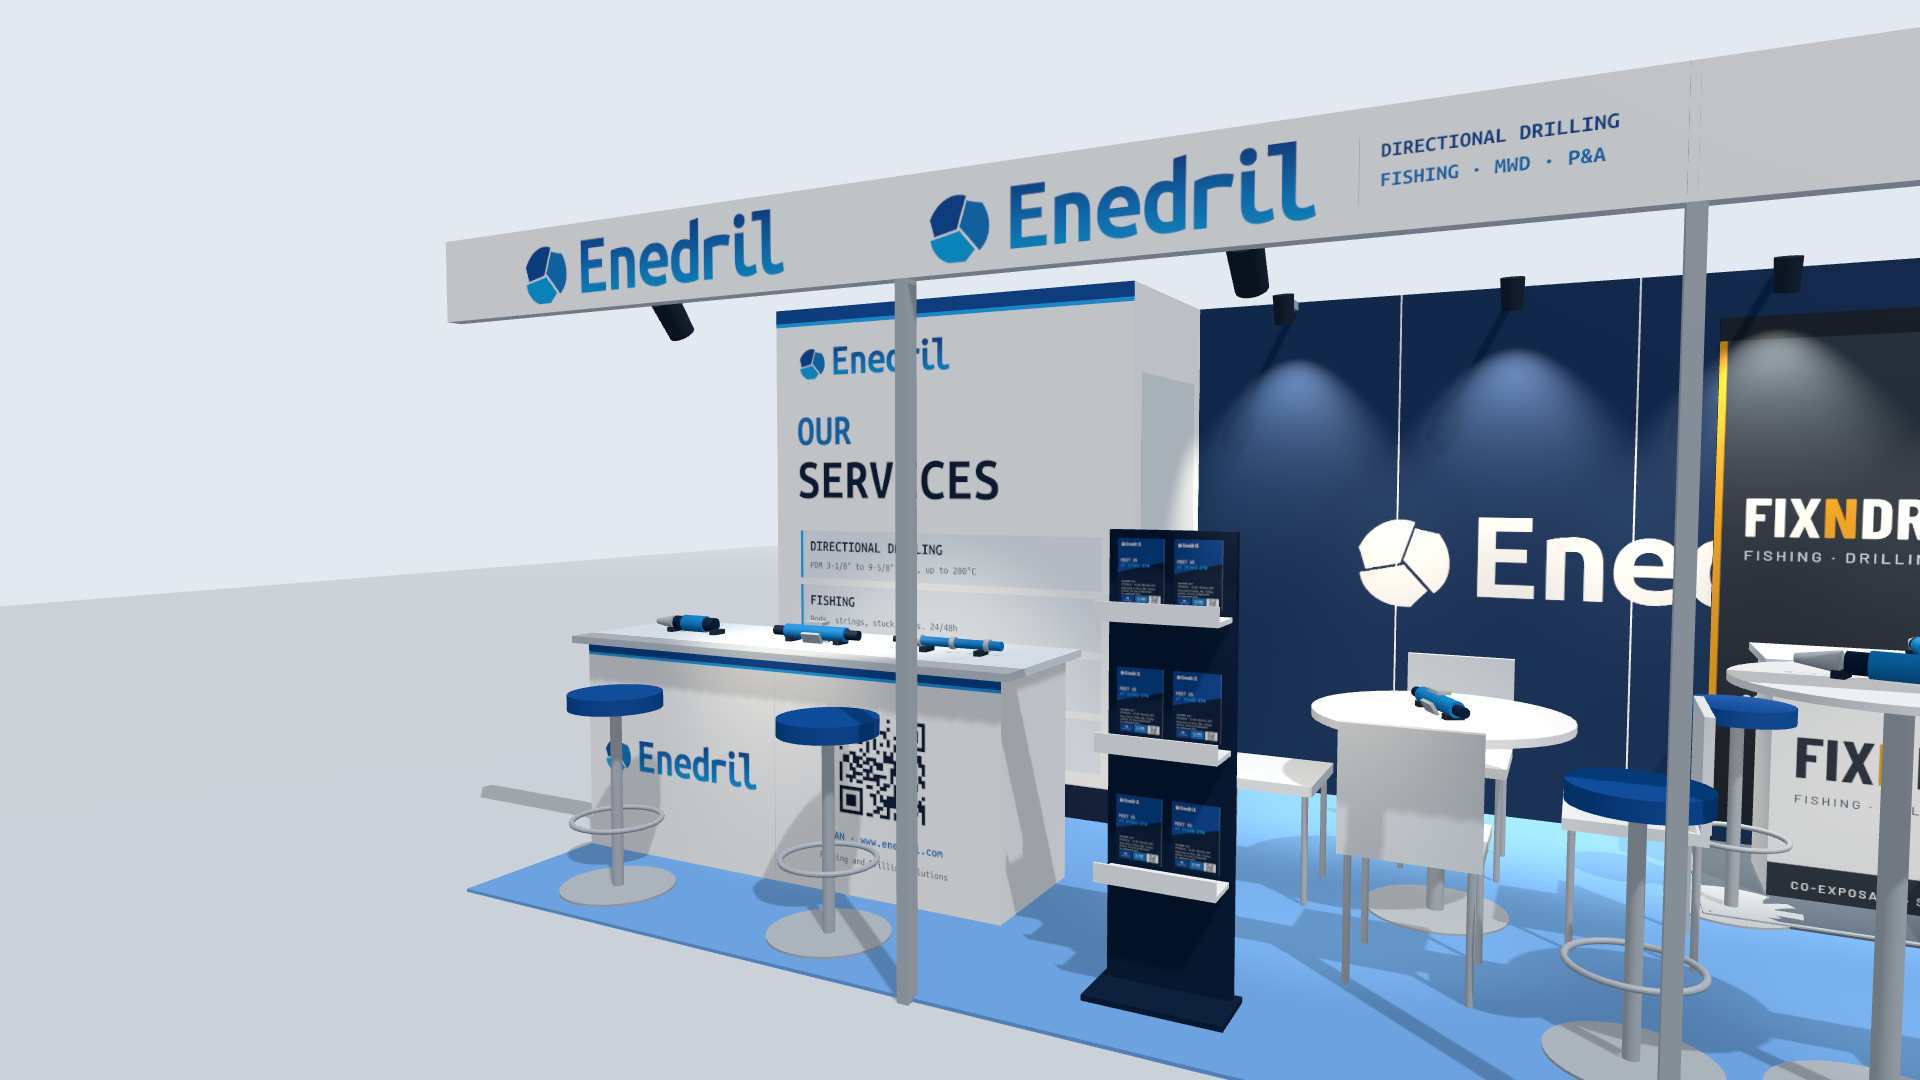
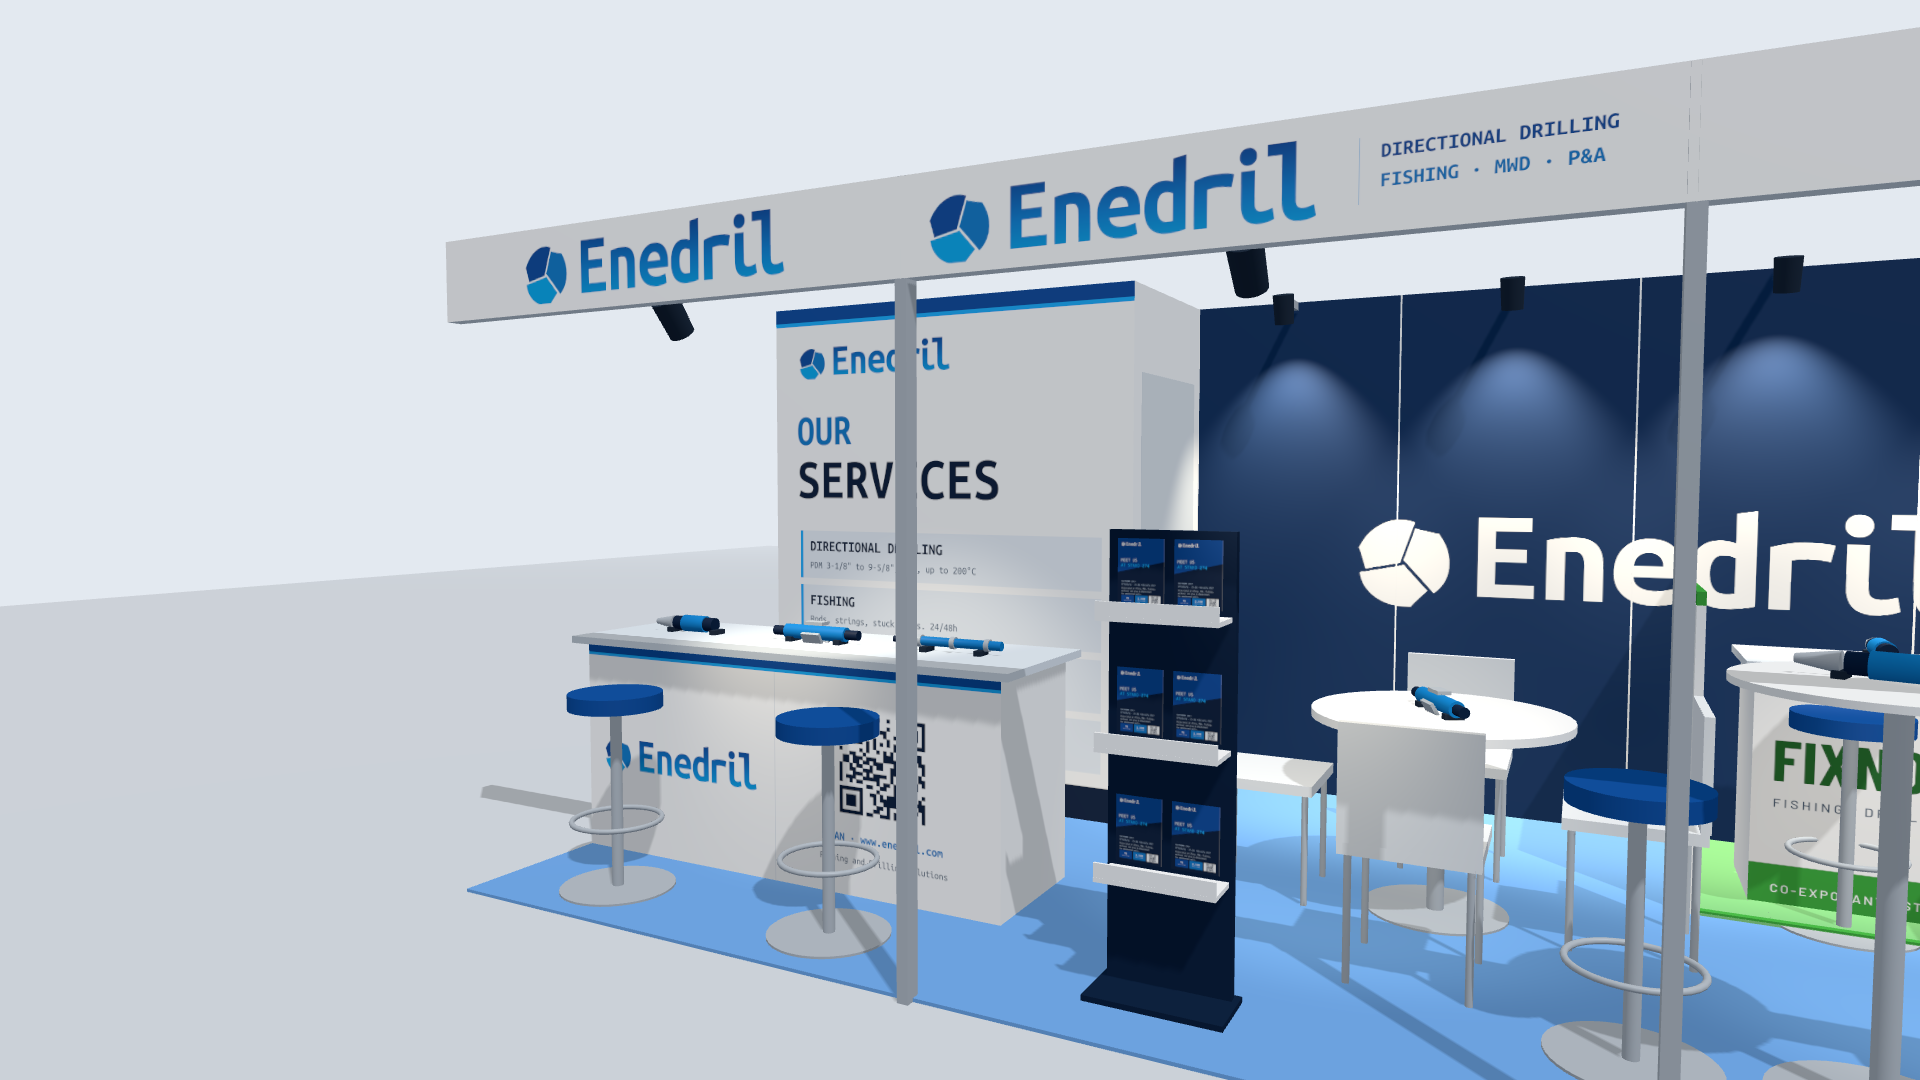
Stand 274: espace Fixndril en vert, separe de l'espace Enedril (cloison, moquette verte, roll-up Fixndril)
Claude-Session: https://claude.ai/code/session_01XPwnZBmWUGhvYebrP3X3Z2

Changed region(s): [[0.875, 0.275, 1.0, 0.8861]]

diff --git a/stand-geotherm-2027/00_Plan_et_3D/source_3D/textures_fixndril.html b/stand-geotherm-2027/00_Plan_et_3D/source_3D/textures_fixndril.html
@@ -1,21 +1,22 @@
 <!doctype html><meta charset=utf-8><style>
 @font-face{font-family:BC;src:url('file:///home/user/Paul/voeux_2027/polices/BarlowCondensed-Bold.ttf');font-weight:700}
-@font-face{font-family:BC;src:url('file:///home/user/Paul/voeux_2027/polices/BarlowCondensed-Medium.ttf');font-weight:500}
 @font-face{font-family:B;src:url('file:///home/user/Paul/voeux_2027/polices/Barlow-Medium.ttf');font-weight:500}
 *{margin:0;box-sizing:border-box}body{background:transparent}
-#wall{width:1250px;height:2000px;background:linear-gradient(180deg,#2E3B4C,#1B2531);color:#fff;position:relative;overflow:hidden}
-#wall .stripe{position:absolute;left:0;top:0;bottom:0;width:26px;background:#E8A317}
-#wall .name{position:absolute;left:100px;top:640px;font:700 232px/0.9 BC;letter-spacing:.005em;white-space:nowrap}
-#wall .name span{color:#E8A317}
-#wall .sub{position:absolute;left:106px;top:880px;font:500 56px/1.3 B;letter-spacing:.18em;color:#C9D3DF;text-transform:uppercase}
-#wall .co{position:absolute;left:116px;top:1500px;font:500 44px/1.4 B;letter-spacing:.12em;color:#9FB0C3}
-#wall .co b{display:block;color:#fff;font:700 74px/1.2 BC;letter-spacing:.06em}
-#front{width:1000px;height:900px;background:#F6F8FA;position:relative;overflow:hidden}
-#front .band{position:absolute;left:0;right:0;bottom:0;height:150px;background:#2B3644}
-#front .name{position:absolute;left:70px;top:230px;font:700 220px/0.9 BC;color:#2B3644}
-#front .name span{color:#E8A317}
-#front .sub{position:absolute;left:76px;top:470px;font:500 42px B;letter-spacing:.2em;color:#51647A;text-transform:uppercase}
-#front .co{position:absolute;left:76px;bottom:48px;font:500 40px B;letter-spacing:.16em;color:#fff;text-transform:uppercase}
+:root{--g:#3AA53C;--gd:#1F6B2B}
+#roll{width:850px;height:2000px;background:#fff;position:relative;overflow:hidden}
+#roll .top{position:absolute;left:0;right:0;top:0;height:560px;background:var(--g)}
+#roll .name{position:absolute;left:60px;top:230px;font:700 178px/1 BC;color:#fff;white-space:nowrap}
+#roll .sub{position:absolute;left:66px;top:430px;font:500 40px B;letter-spacing:.2em;color:#E6F5E7;text-transform:uppercase}
+#roll .h{position:absolute;left:66px;top:700px;font:700 120px/1 BC;color:var(--gd);text-transform:uppercase}
+#roll .t{position:absolute;left:66px;top:960px;width:720px;font:500 46px/1.5 B;color:#2B3644}
+#roll .t i{display:block;border-left:10px solid var(--g);padding-left:24px;margin-bottom:34px;font-style:normal}
+#roll .foot{position:absolute;left:0;right:0;bottom:0;height:260px;background:var(--gd);color:#fff;padding:70px 66px;font:500 44px/1.5 B;letter-spacing:.12em;text-transform:uppercase}
+#front{width:1000px;height:900px;background:#fff;position:relative;overflow:hidden}
+#front .band{position:absolute;left:0;right:0;bottom:0;height:170px;background:var(--g)}
+#front .name{position:absolute;left:60px;top:220px;font:700 218px/1 BC;color:var(--gd);white-space:nowrap}
+#front .sub{position:absolute;left:68px;top:470px;font:500 44px B;letter-spacing:.2em;color:#51647A;text-transform:uppercase}
+#front .co{position:absolute;left:68px;bottom:56px;font:500 42px B;letter-spacing:.16em;color:#fff;text-transform:uppercase}
 </style>
-<div id=wall><div class=stripe></div><div class=name>FIX<span>N</span>DRIL</div><div class=sub>Fishing · Drilling</div><div class=co><b>CO-EXPOSANT</b>Stand 274 · avec Enedril</div></div>
-<div id=front><div class=name>FIX<span>N</span>DRIL</div><div class=sub>Fishing · Drilling</div><div class=band></div><div class=co>Co-exposant · Stand 274</div></div>
+<div id=roll><div class=top></div><div class=name>FIXNDRIL</div><div class=sub>Fishing · Drilling</div>
+<div class=h>Co-exposant</div><div class=t><i>Stand 274</i><i>Salon GeoTHERM 2027</i><i>Offenburg · 25-26 février</i></div><div class=foot>Fixndril</div></div>
+<div id=front><div class=name>FIXNDRIL</div><div class=sub>Fishing · Drilling</div><div class=band></div><div class=co>Co-exposant · Stand 274</div></div>

diff --git a/stand-geotherm-2027/00_Plan_et_3D/source_3D/stand3d.html b/stand-geotherm-2027/00_Plan_et_3D/source_3D/stand3d.html
@@ -90,13 +90,18 @@ function spotFx(x,y,z,tx,ty,tz,inten,ang){const g=new THREE.Group();
 [.5,1.5,2.5,3.5].forEach(y=>{box(2.72,3.0,y-.01,y+.01,2.46,2.5,CHROME);spotFx(2.72,y,2.43,3.0,y,1.3,7,.7);});
 [1.0,3.0,5.0].forEach(y=>spotFx(.1,y,2.17,1.3,y,.7,4,.5));
 
-// ---- espace FIXNDRIL (co-exposant) : angle sud-est contre le mur du fond, ~1 x 1,5 m
-box(1.95,3,.32,1.78,.012,.02,std(0x59687B,.95));box(1.95,1.97,.32,1.78,.02,.026,CHROME);box(1.95,3,1.76,1.78,.02,.026,CHROME);box(1.95,3,.32,.34,.02,.026,CHROME);
-box(2.97,3.0,.4,1.7,.1,2.3,std(0x1B2531,.5));face(tex('fx_wall'),'W',2.969,1.05,1.2,1.3,2.0);
-box(2.3,2.75,.55,1.55,0,.9,WHITE);box(2.27,2.78,.52,1.58,.9,.93,std(0xDDE6EF,.35));
-face(tex('fx_front'),'W',2.299,1.05,.45,1.0,.9);
-tool('cutter',2.55,1.05,.93,0);tool('mwd',2.55,.8,.93,0);
-stool(2.1,1.68);
+// ---- espace FIXNDRIL (co-exposant), séparé de l'espace Enedril : angle sud-est, moquette verte, cloison, roll-up et comptoir propres
+const FG=std(0x3AA53C,.6),FGD=std(0x1F6B2B,.6);
+box(1.95,3,.3,1.8,.012,.022,std(0x7CC47F,.95));                                   // moquette verte
+box(1.95,1.98,.3,1.8,.022,.03,FG);box(1.95,3,.3,.33,.022,.03,FG);                 // seuil vert (ouest) et bord sud
+box(1.95,3,1.8,1.83,0,1.15,WHITE);box(1.95,3,1.8,1.83,1.15,1.2,FG);               // cloison de séparation avec l'espace Enedril (côté nord)
+// roll-up Fixndril 85 x 200, adossé au mur du fond, face à l'allée (hors du logo Enedril)
+(function(){const xc=2.9,yc=.43;box(xc-.04,xc+.04,yc-.43,yc+.43,0,.04,FGD);box(xc-.03,xc+.03,yc-.425,yc+.425,.04,2.04,FGD);face(tex('fx_rollup'),'W',xc-.0305,yc,1.04,.85,2.0);})();
+// comptoir Fixndril, façade imprimée vers l'allée
+box(2.2,2.65,.62,1.62,0,.9,WHITE);box(2.17,2.68,.59,1.65,.9,.93,std(0xDDE6EF,.35));
+face(tex('fx_front'),'W',2.199,1.12,.45,1.0,.9);
+tool('cutter',2.45,1.2,.93,0);tool('mwd',2.45,.95,.93,0);
+stool(2.05,1.35);
 // ---- lumières
 sc.add(new THREE.HemisphereLight(0xFFFFFF,0x9AA6B5,1.7));
 const dl=new THREE.DirectionalLight(0xFFFFFF,1.4);dl.position.copy(V(-3,-2,10));dl.target.position.copy(V(1.5,3,0));sc.add(dl,dl.target);
